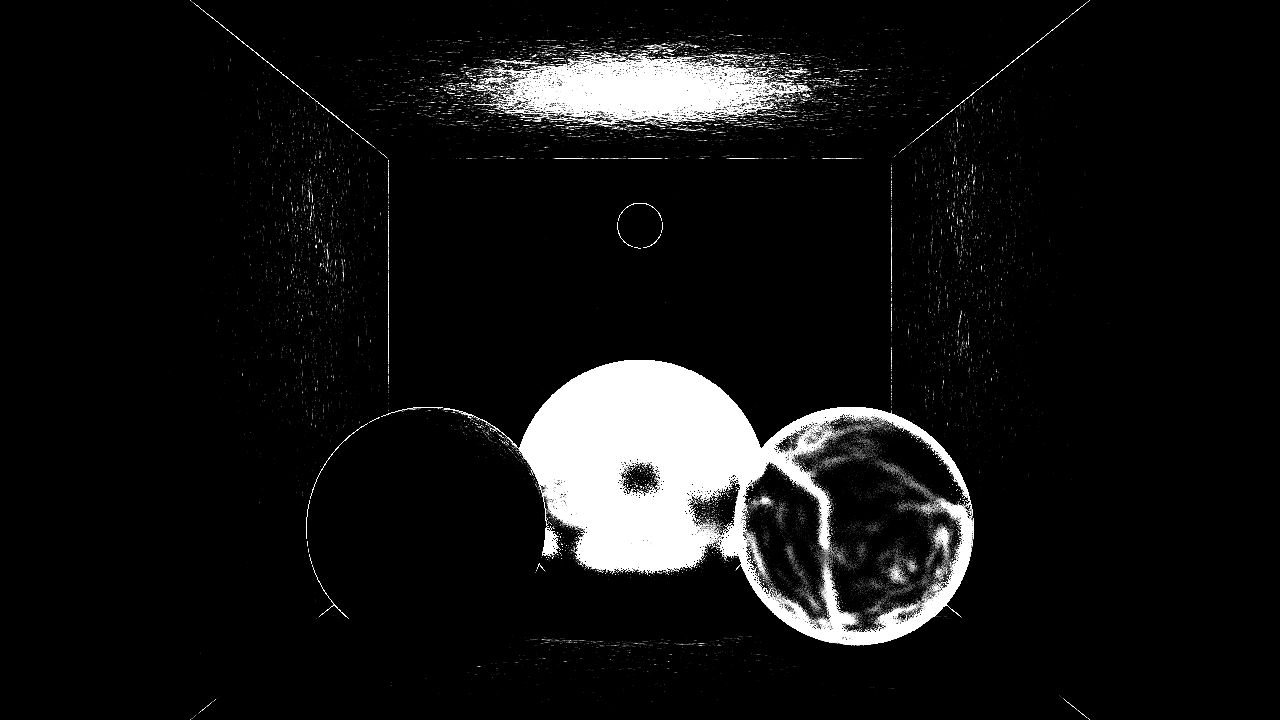
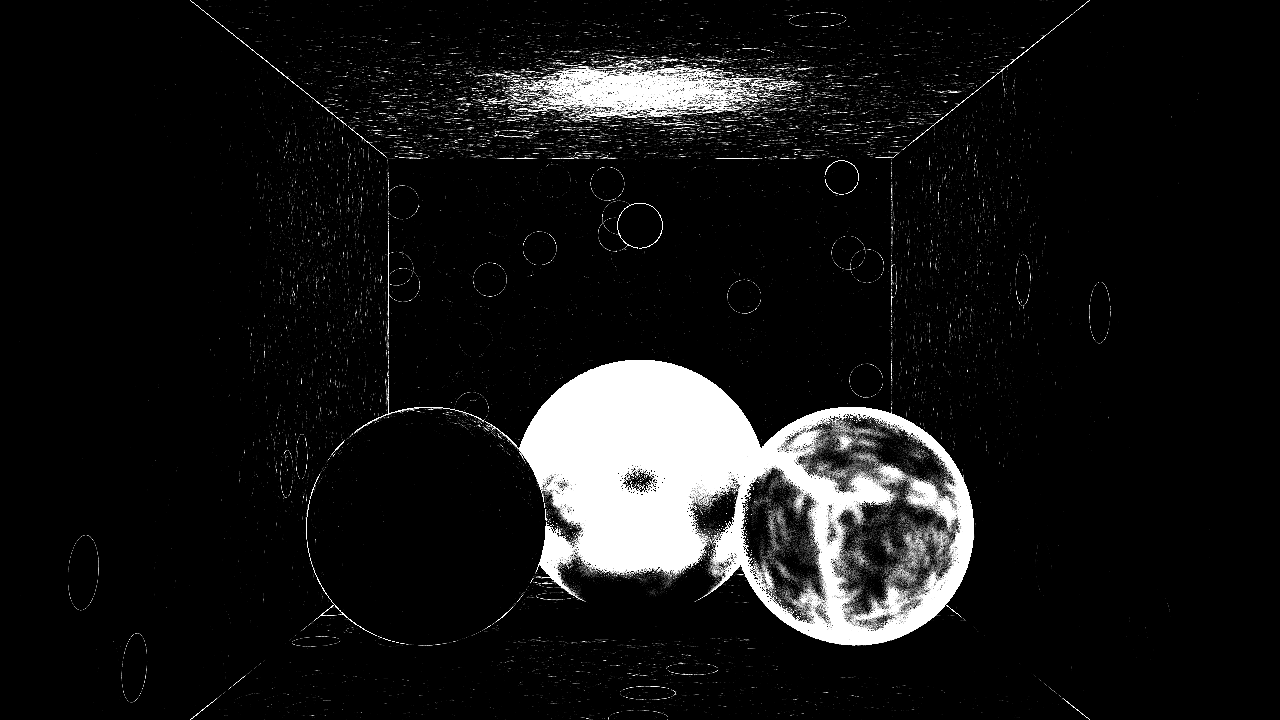
Direct + indirect now stores photons right when they hit a photon surface

diff --git a/src/main.cpp b/src/main.cpp
@@ -333,24 +333,23 @@ int main()
                 if (!renderer.TraceRay(photonRay, hInfo) || hInfo.light)
                     break;
 
+                const Material* material{ hInfo.node->GetMaterial() };
+                if (!material->IsPhotonSurface())
+                    break;
+
+                if (!photonMap.AddPhoton(hInfo.p, photonRay.dir, c))
+                {
+                    mapIsFull = true;
+                    break;
+                }
+
                 SamplerInfo sInfo{ tileThreads::rng };
                 sInfo.SetHit(photonRay, hInfo);
-
-                const Material* material{ hInfo.node->GetMaterial() };
 
                 DirSampler::Info info{};
                 Vec3f newDir{};
                 if (!material->GenerateSample(sInfo, newDir, info))
                     break;
-
-                if (info.lobe == DirSampler::Lobe::DIFFUSE)
-                {
-                    if (!photonMap.AddPhoton(hInfo.p, photonRay.dir, c))
-                    {
-                        mapIsFull = true;
-                        break;
-                    }
-                }
 
                 photonRay.dir = newDir;
                 photonRay.p = hInfo.p;

diff --git a/src/renderer.cpp b/src/renderer.cpp
@@ -2,5 +2,5 @@
 
 Renderer renderer;
 const bool doingDirectWithPhotonMapping{ true };
-const bool doingIndirectWithPhotonMapping{ false };
+const bool doingIndirectWithPhotonMapping{ true };
 const bool doingCaustics{ false };
